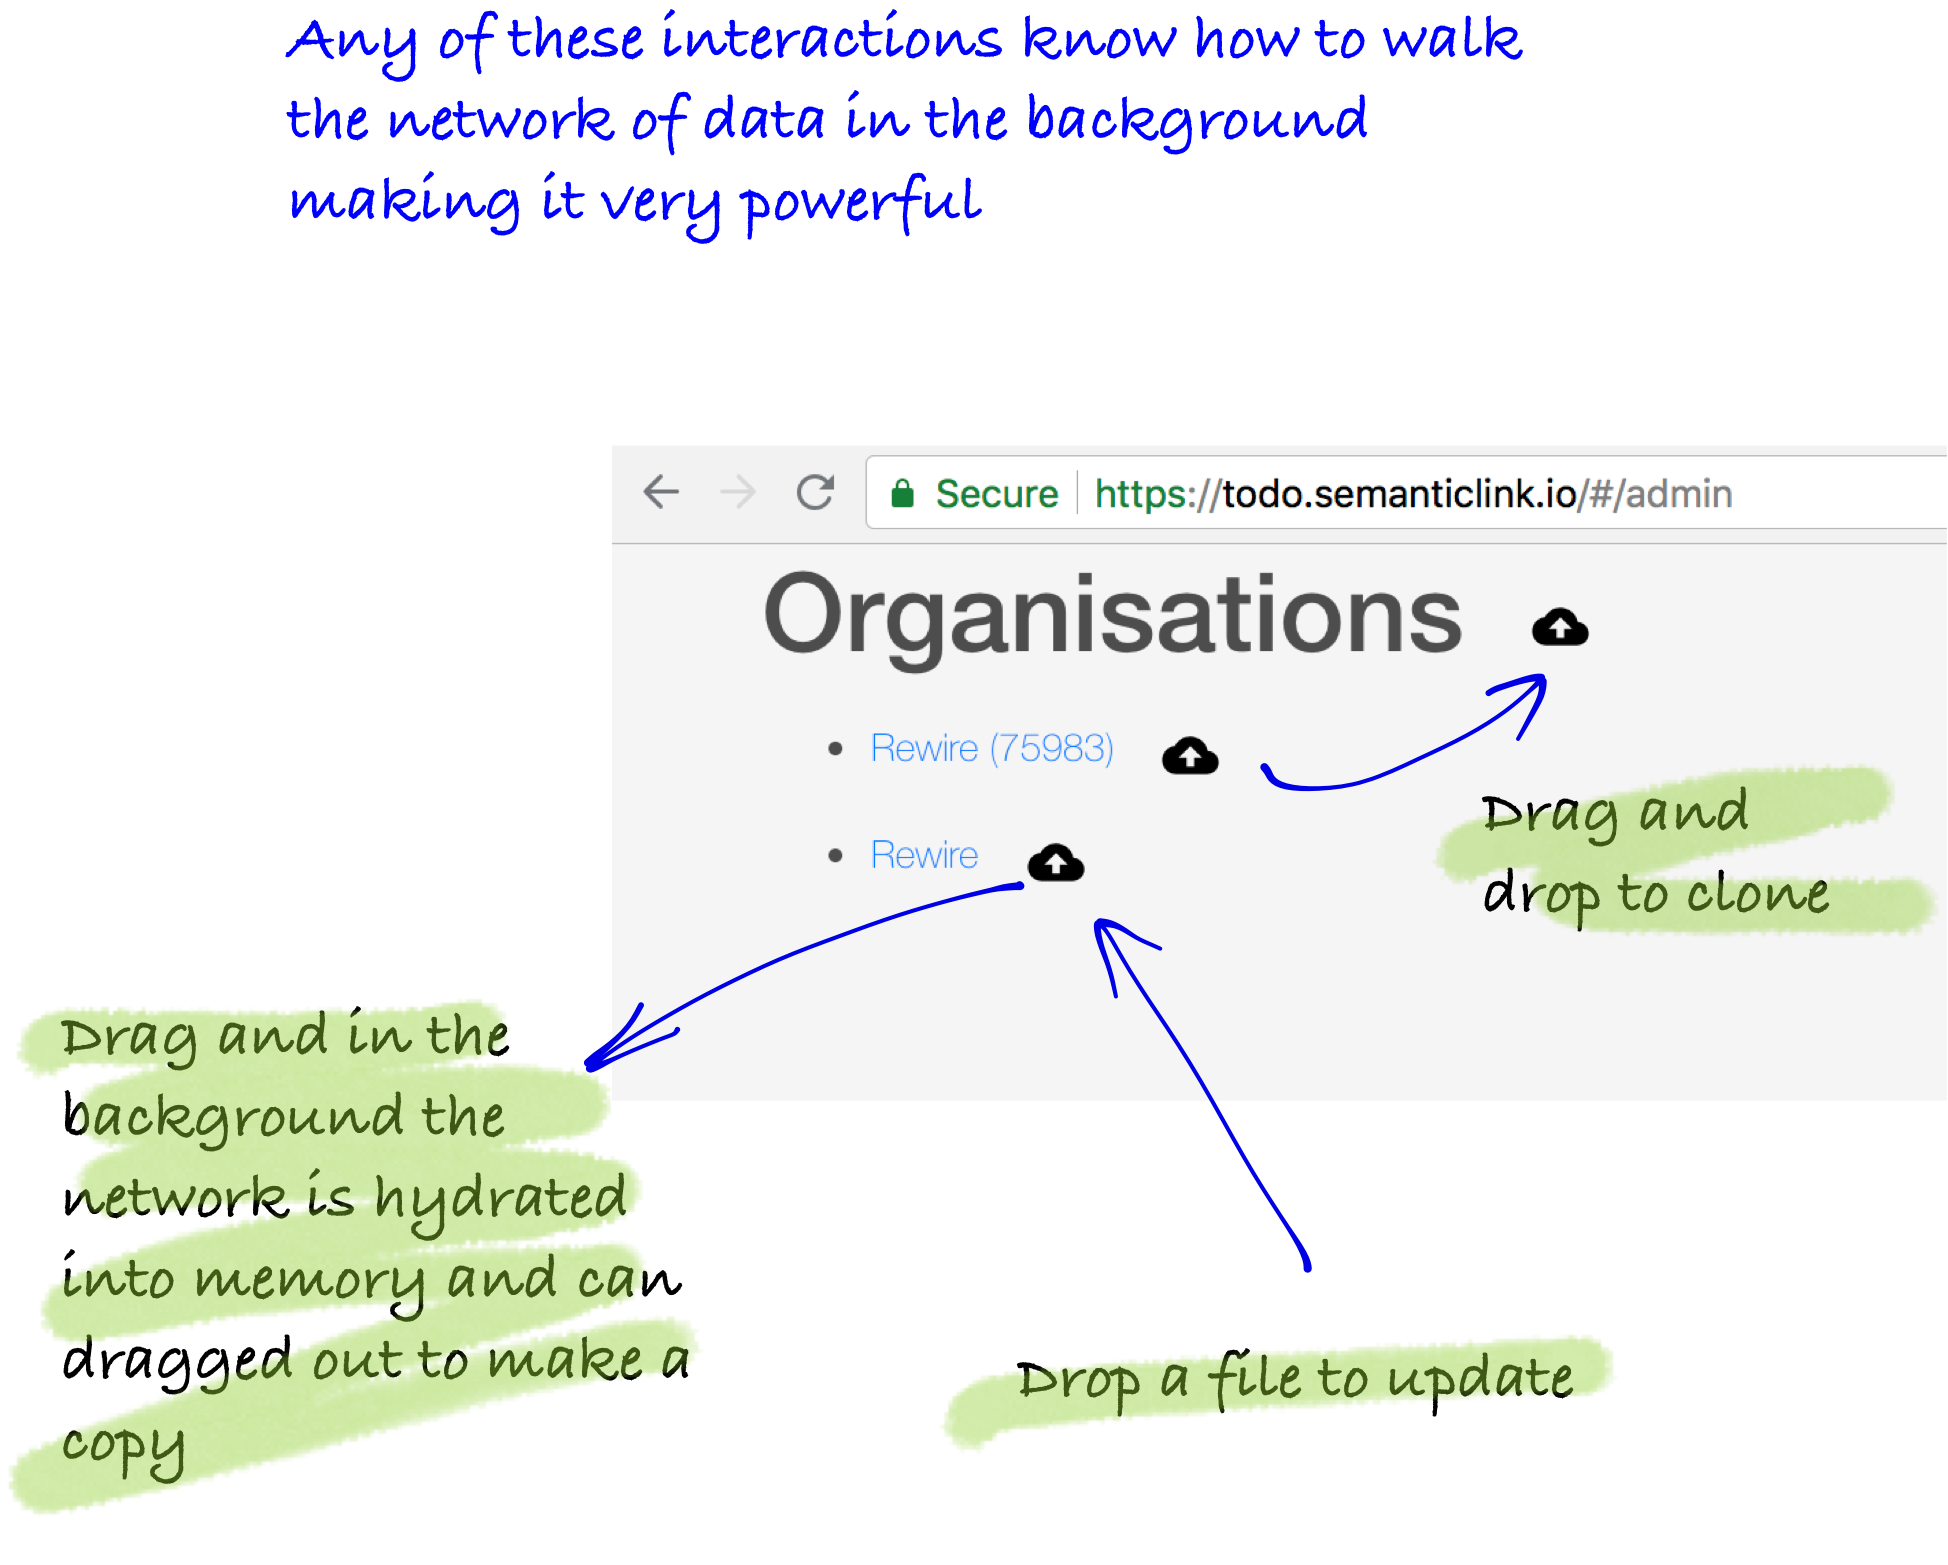
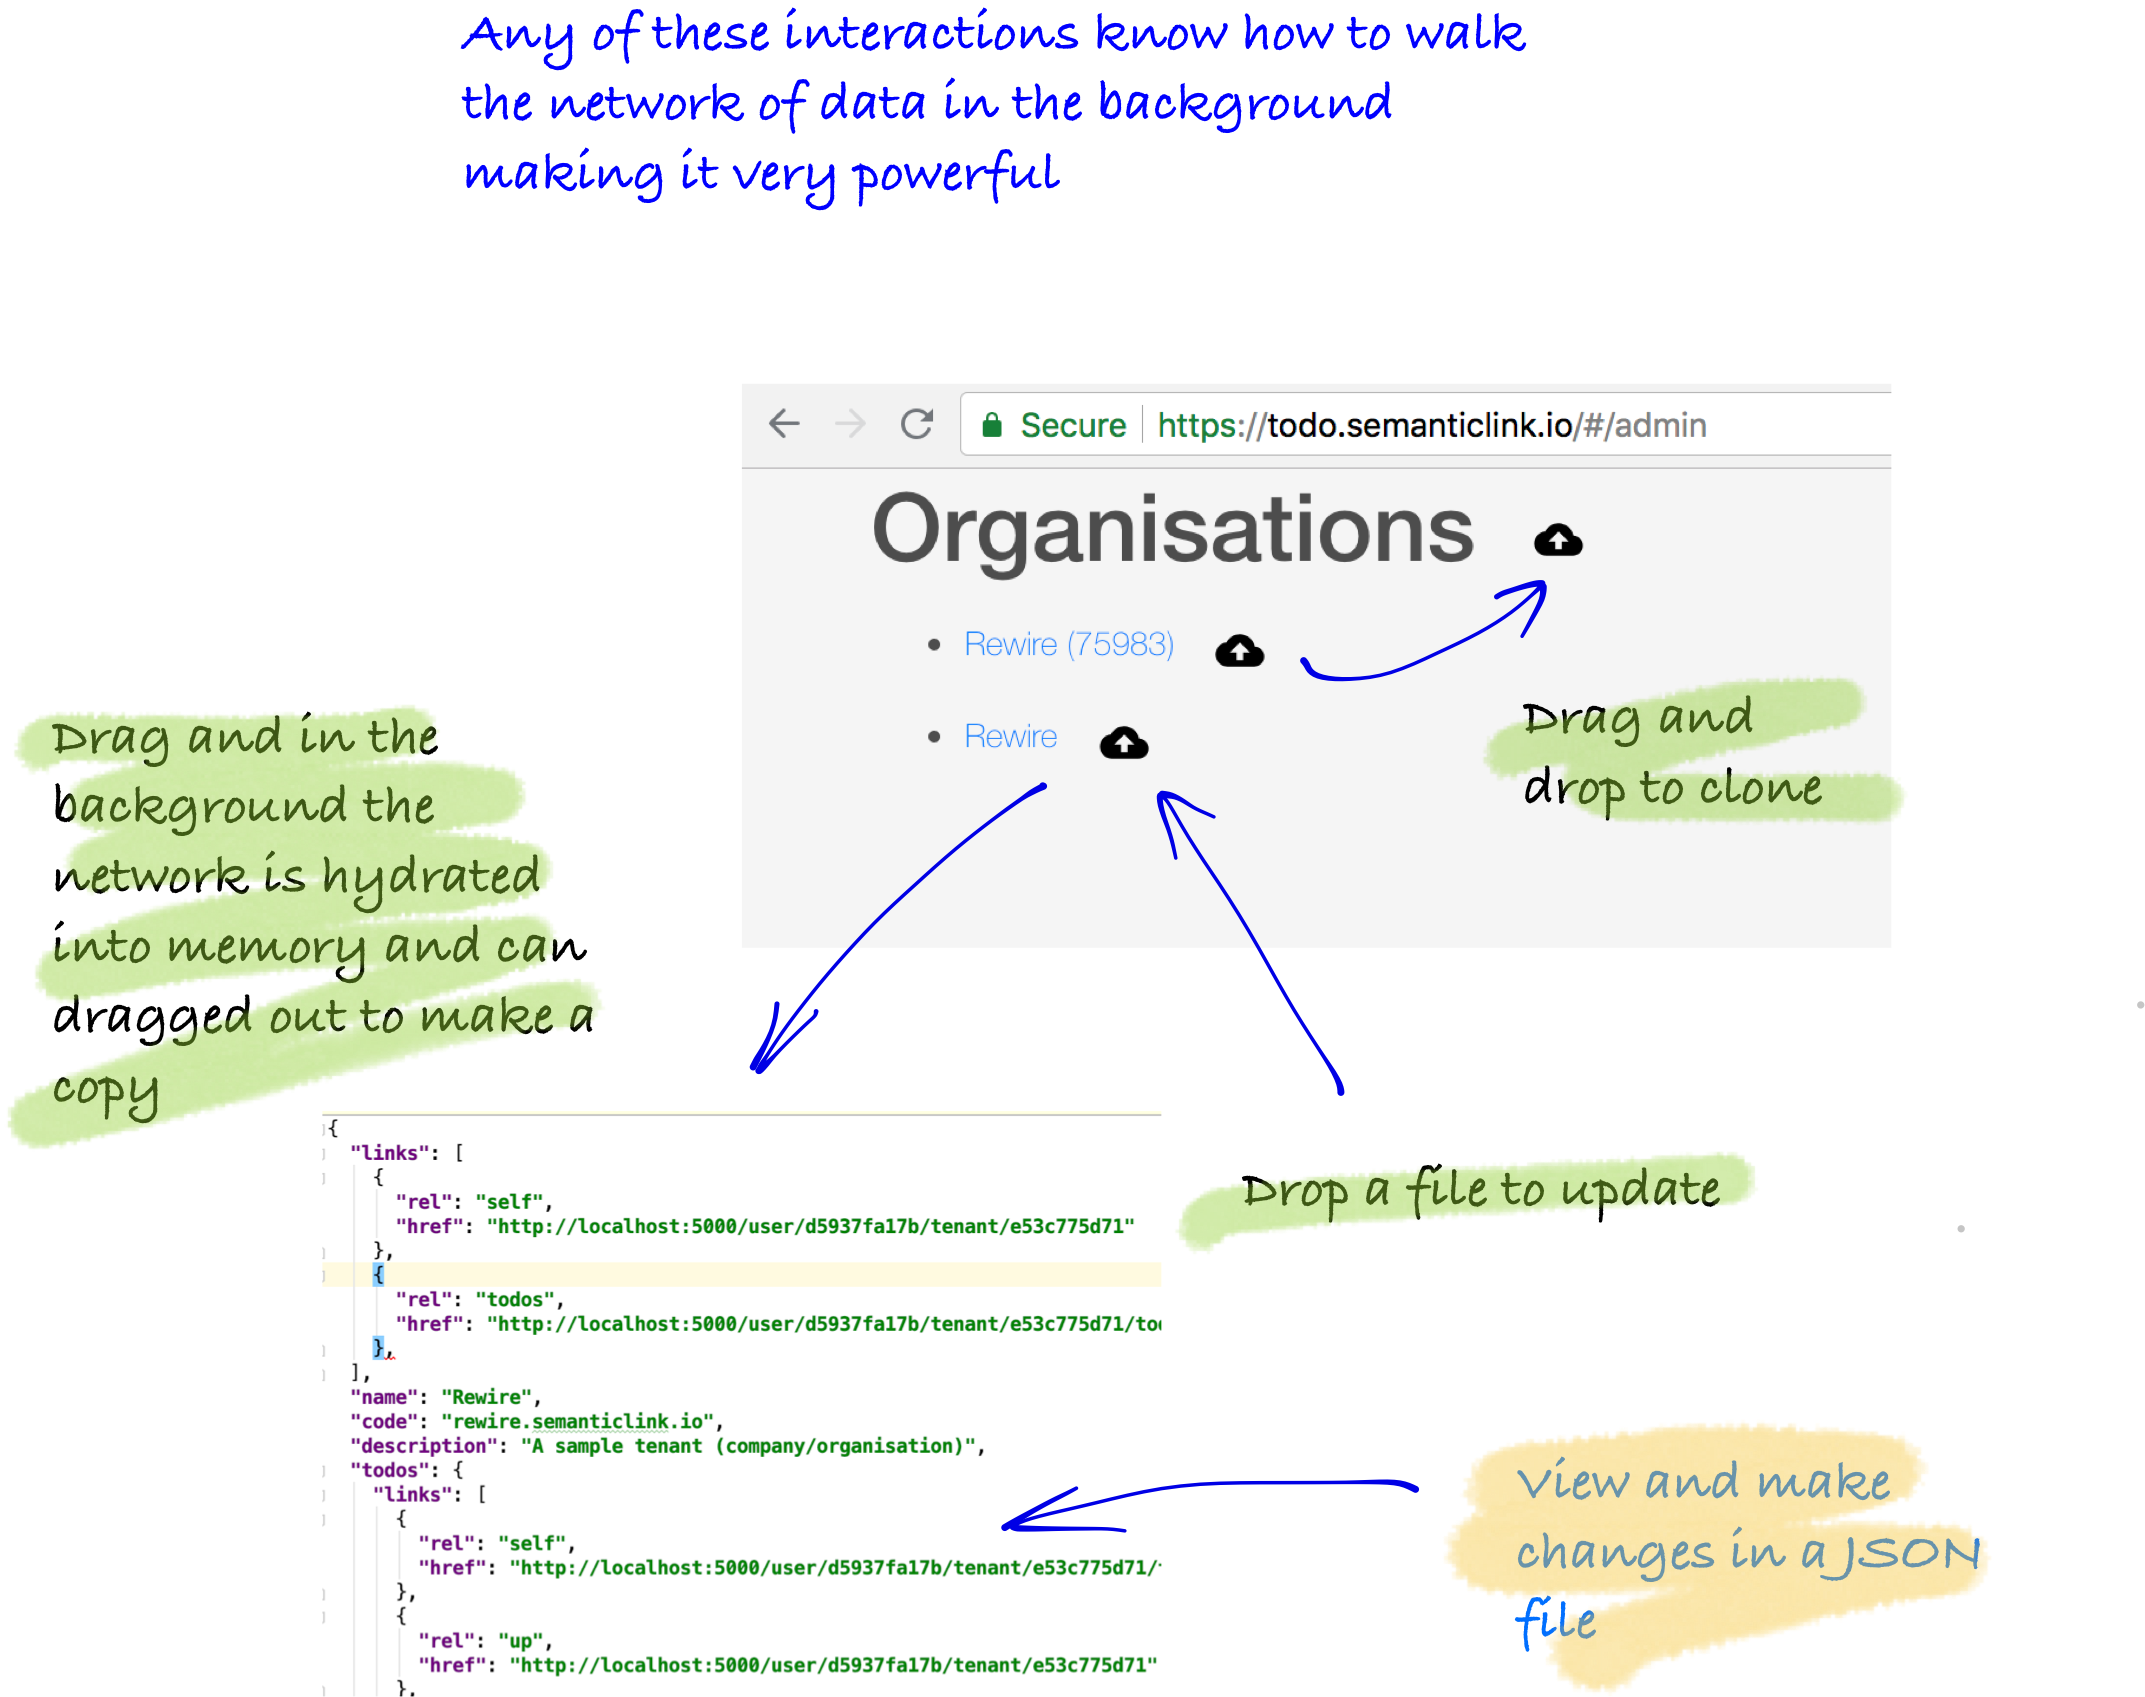
Clarity in image and explaining of the two views

diff --git a/content/frontend/vue-todo-app/0-introduction.md b/content/frontend/vue-todo-app/0-introduction.md
@@ -6,20 +6,27 @@ description: "Learn how to build a todo app and admin functions over the top of 
 
 ### Motivation
 
-Consuming hypermedia means that we have to respect the constraints of self-contained API with one starting point. This tutorial explores a concrete implementation of the todo API that builds a simple todo app.
+Consuming hypermedia means respecting the constraints of a self-contained API from a known single starting point and following link relations. This tutorial explores a concrete implementation of the todo API that builds a simple todo app.
 
 The tutorial is written using Vue and covers:
 
 * client-side urls and routing
 * binding views to representation (through client-side application cache)
 * on-demand authentication
-* admin view to cloning todos (through sync utilities that build on client-side application cache)
+* cloning todos (through sync utilities that build on client-side application cache)
 
-### Two views
+### Two views of the application
 
-#### Todo App
+ Most business applications have administrative functions hidden from the customer-side view. This has been modelled in the todo app to show that clients can interact with the API to varying levels. The first is the customer-side view is creating and using todos individually and at the request of users (with some batch functions). The other view is administrative which often requires bulk processing. By the end of the tutorial, you should start to understand that all of these functions exist on a continuum and all should build on the same foundation as outlined in the points above.
+
+### View One: Todo App
+
+The customer fronting application walks the API and binds the UI to specific parts resources for display, update, creation and deletion. It also might batch process functions by iterating over a set.
 
 ![combination-resource](../../hypermedia/advanced/combination-resource.png)
 
-#### Admin
+### View Two: Admin
+
+Administrative view often also require bulk processing. Drag and drop is a technique to facilitate invoking these types of approaches. Underneath, resources are hydrated and evaluated for changes to be made back against the server.
+
 ![processing-resource](../../hypermedia/advanced/processing-resource.png)
